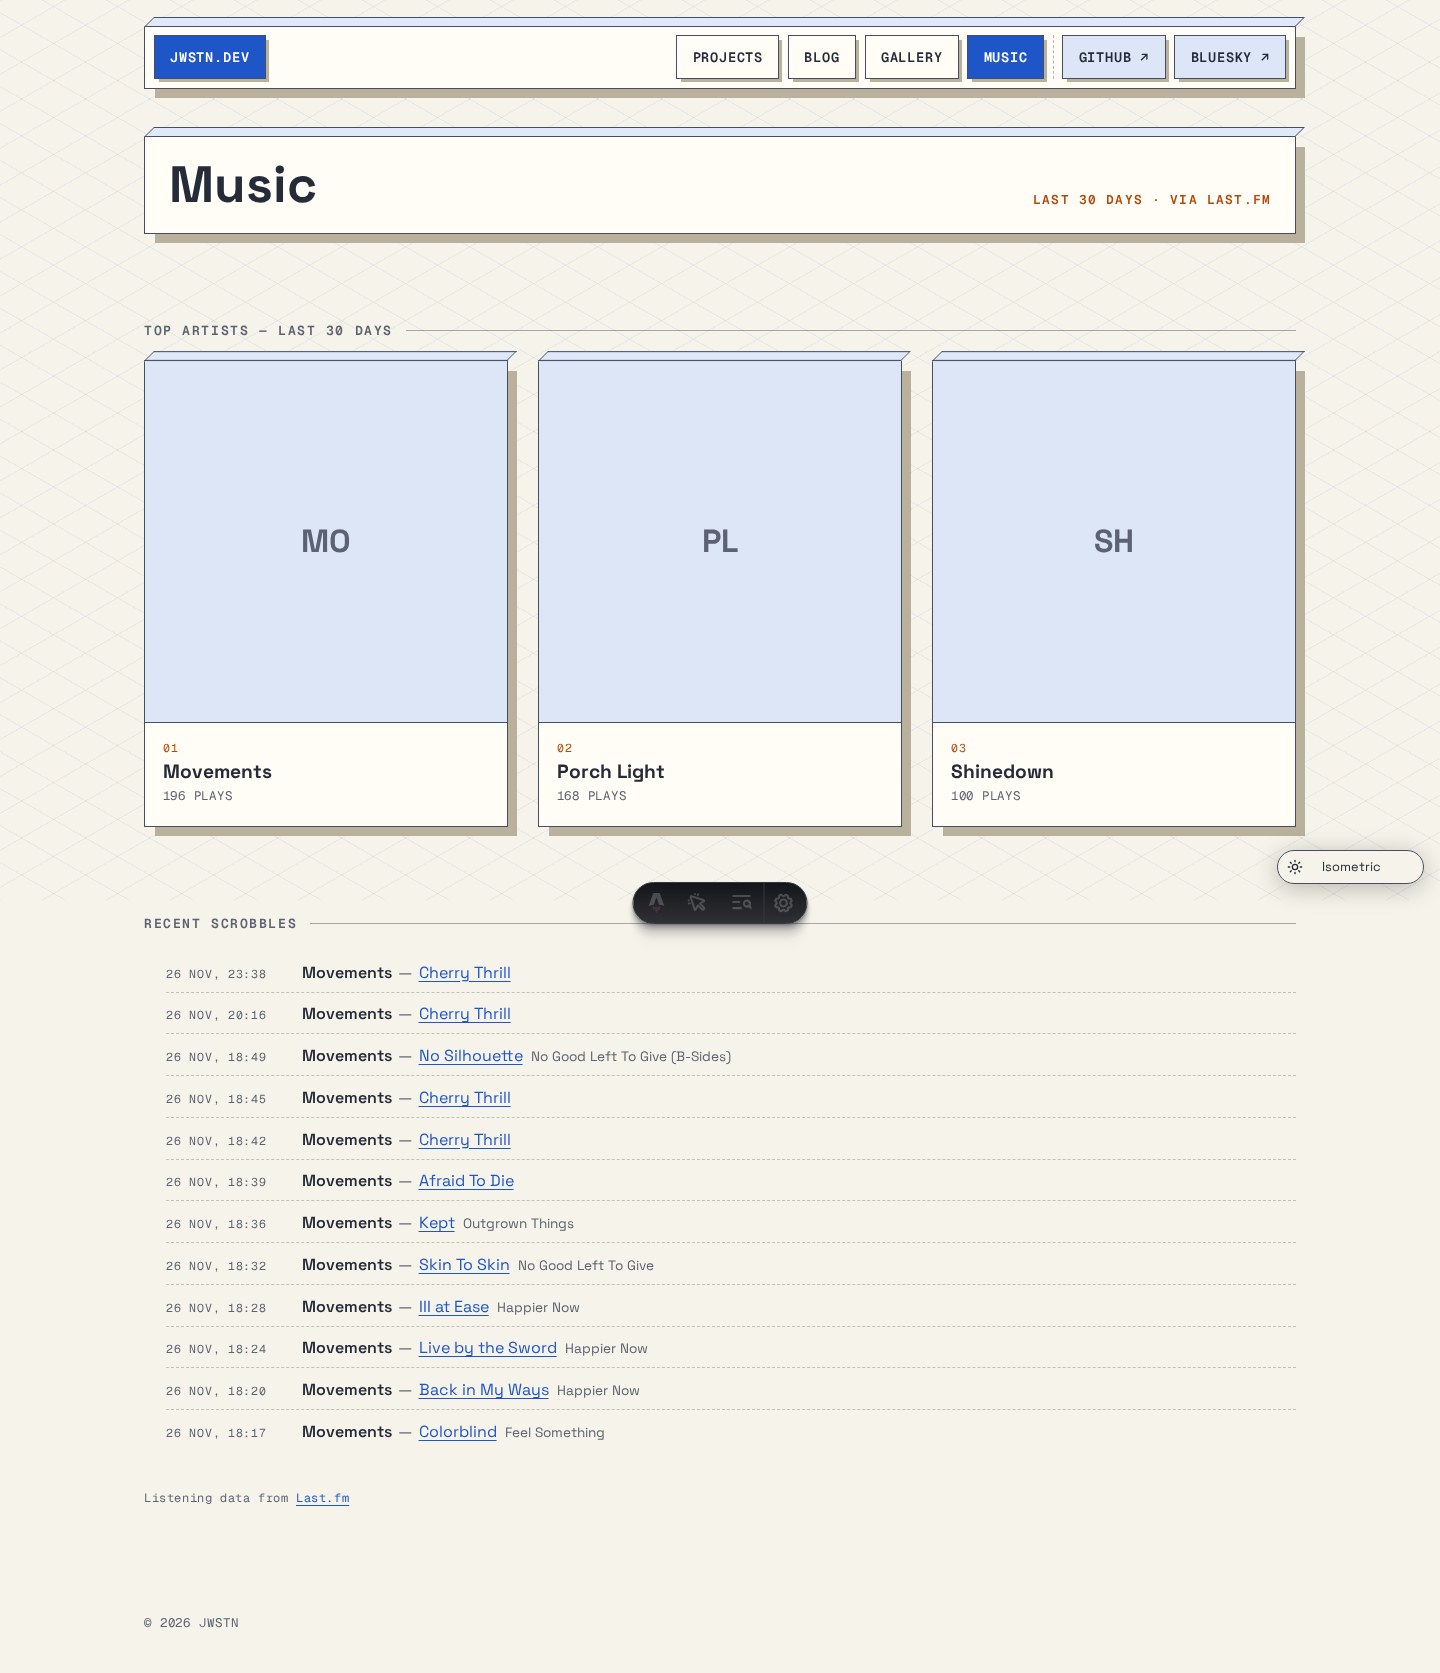
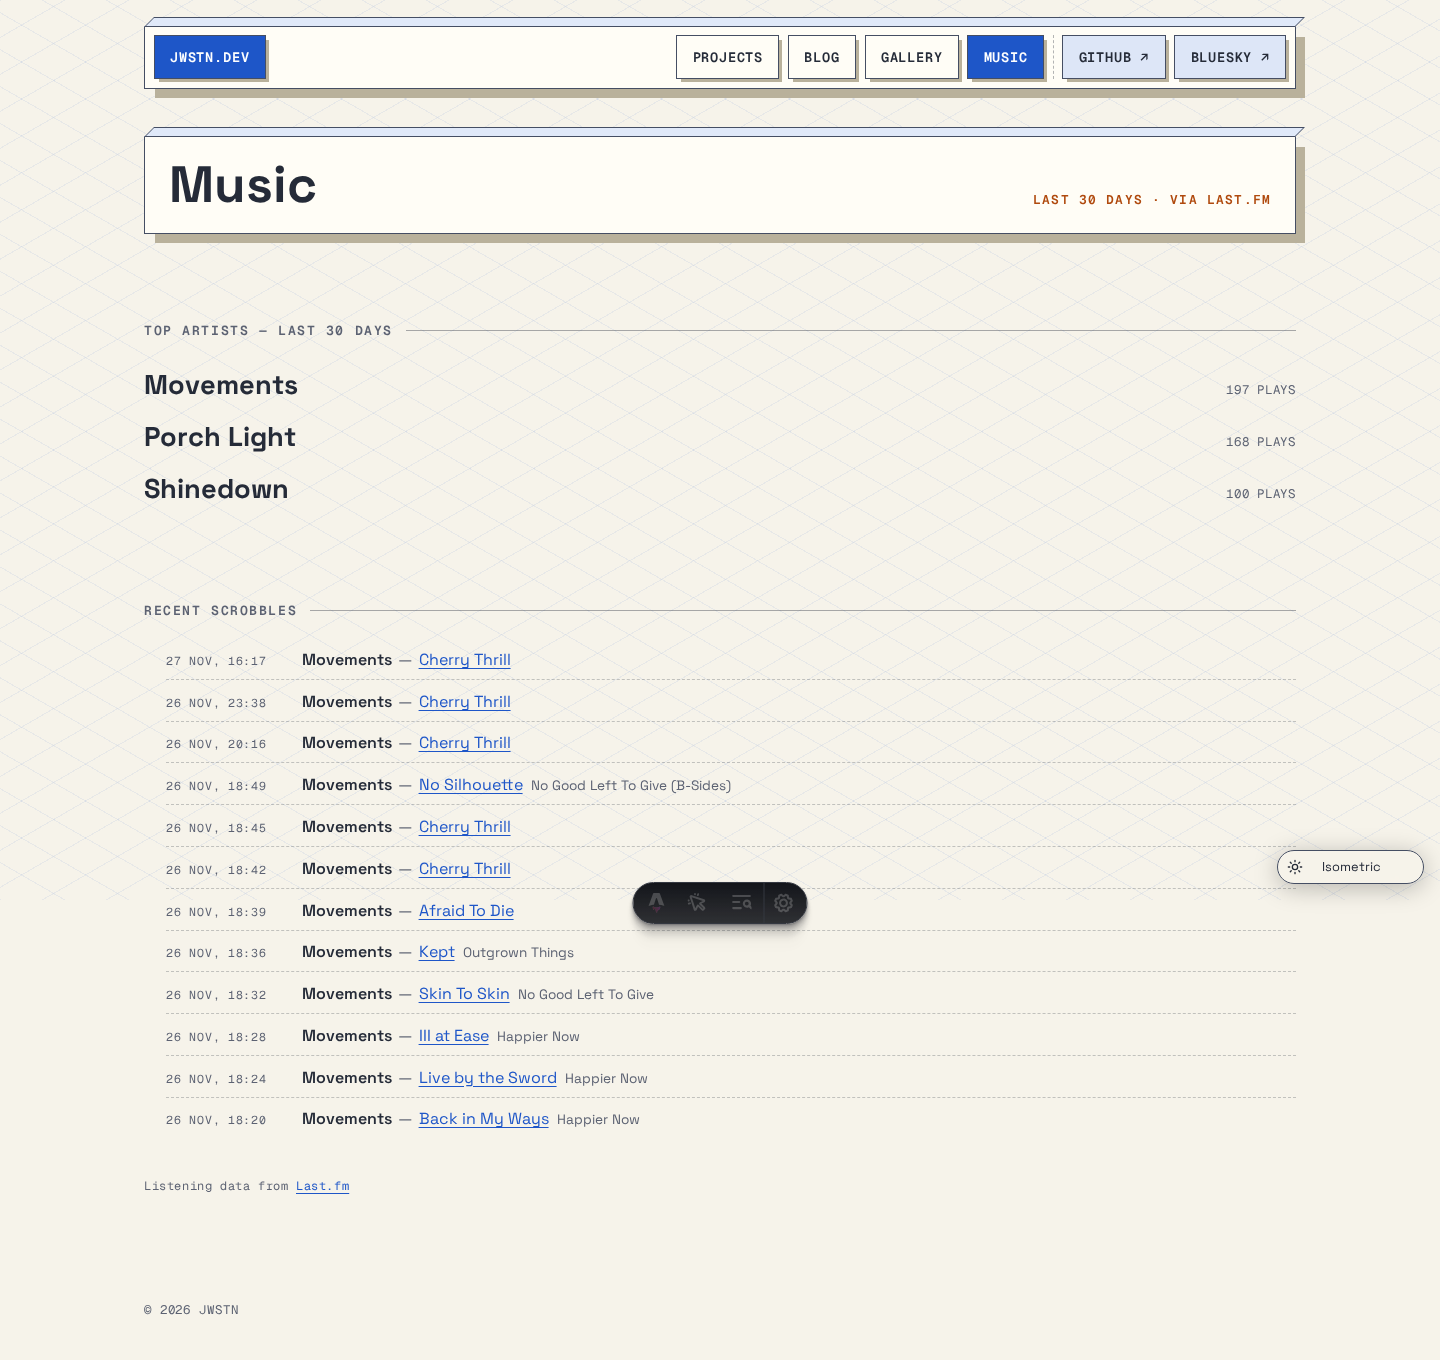
Music page: top artists as a plain name + play-count list (#27)

diff --git a/src/themes/isometric/theme.css b/src/themes/isometric/theme.css
@@ -1171,59 +1171,36 @@ html.theme-isometric .iso-plate-note {
 
 html.theme-isometric .iso-artists {
   display: grid;
-  grid-template-columns: repeat(3, minmax(0, 1fr));
-  gap: 1.9rem;
+  gap: 0.2rem;
   padding: 0;
   margin: 0;
   list-style: none;
 }
-@media (max-width: 40rem) {
-  html.theme-isometric .iso-artists {
-    grid-template-columns: 1fr;
-  }
-}
-
 html.theme-isometric .iso-artist {
-  display: grid;
+  display: flex;
+  flex-wrap: wrap;
+  align-items: baseline;
+  justify-content: space-between;
+  gap: 0.35rem 1.25rem;
+  padding-block: 0.6rem;
+  border-block-end: 1px dashed color-mix(in oklab, var(--foreground) 25%, transparent);
   color: inherit;
   text-decoration: none;
 }
-html.theme-isometric .iso-artist-img {
-  display: grid;
-  place-items: center;
-  aspect-ratio: 1;
-  overflow: hidden;
-  background: var(--secondary);
-  border-block-end: 1px solid var(--iso-edge);
-}
-html.theme-isometric .iso-artist-img img {
-  display: block;
-  width: 100%;
-  height: 100%;
-  object-fit: cover;
-}
-html.theme-isometric .iso-artist-fallback {
-  font-family: var(--font-display);
-  font-size: 2rem;
-  font-weight: 700;
-  color: var(--muted-foreground);
-}
-html.theme-isometric .iso-artist-info {
-  display: grid;
-  gap: 0.25rem;
-  padding: 1rem 1.1rem 1.2rem;
-}
-html.theme-isometric .iso-artist-rank {
-  font-family: var(--font-mono);
-  font-size: 0.72rem;
-  letter-spacing: 0.1em;
-  color: var(--accent);
+html.theme-isometric .iso-artist:last-child {
+  border-block-end: 0;
 }
 html.theme-isometric .iso-artist-name {
   font-family: var(--font-display);
-  font-size: 1.2rem;
+  font-size: clamp(1.3rem, 3vw, 1.7rem);
   font-weight: 700;
   line-height: 1.1;
+}
+html.theme-isometric .iso-artist:hover .iso-artist-name {
+  text-decoration: underline;
+  text-decoration-thickness: 3px;
+  text-underline-offset: 4px;
+  text-decoration-color: var(--accent);
 }
 html.theme-isometric .iso-artist-plays {
   font-family: var(--font-mono);
@@ -1231,12 +1208,6 @@ html.theme-isometric .iso-artist-plays {
   letter-spacing: 0.06em;
   text-transform: uppercase;
   color: var(--muted-foreground);
-}
-html.theme-isometric .iso-artist:hover .iso-artist-name {
-  text-decoration: underline;
-  text-decoration-thickness: 3px;
-  text-underline-offset: 4px;
-  text-decoration-color: var(--accent);
 }
 
 html.theme-isometric .iso-scrobbles {

diff --git a/docs/SCREENSHOTS.md b/docs/SCREENSHOTS.md
@@ -845,10 +845,10 @@ Newsreader on unbleached washi: off-center hero with open ma, staggered rows, to
 
 ## Music — Last.fm listening stats (`/music`)
 
-Isometric page: the **top three artists of the last 30 days** as typographic tiles (Last.fm's terms
-exclude artwork from the API licence, so no artist images are shown), a **recent-scrobbles bullet
-list** with a now-playing state, and the required Last.fm attribution link. Other themes get a small
-fallback pointing at the isometric version.
+Isometric page: the **top three artists of the last 30 days** as a simple ranked list (artist name +
+play count), a **recent-scrobbles bullet list** with a now-playing state, and the required Last.fm
+attribution link. No artwork is shown — Last.fm's terms exclude it from the API licence. Other themes
+get a small fallback pointing at the isometric version.
 
 | | |
 |---|---|
